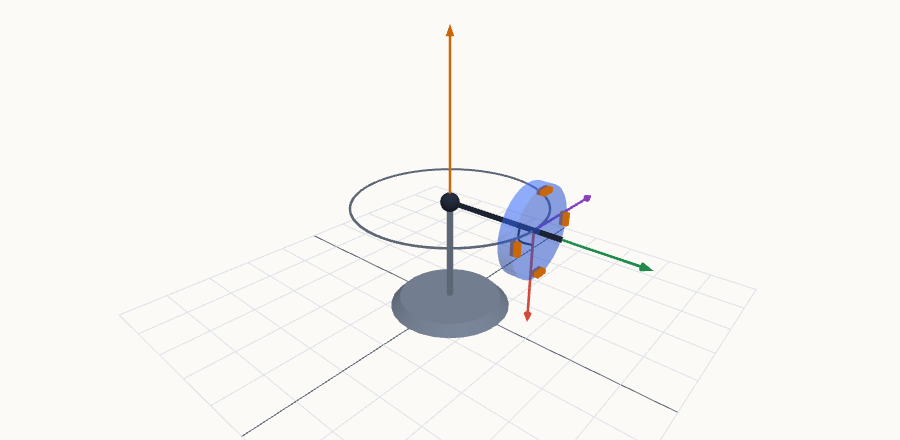
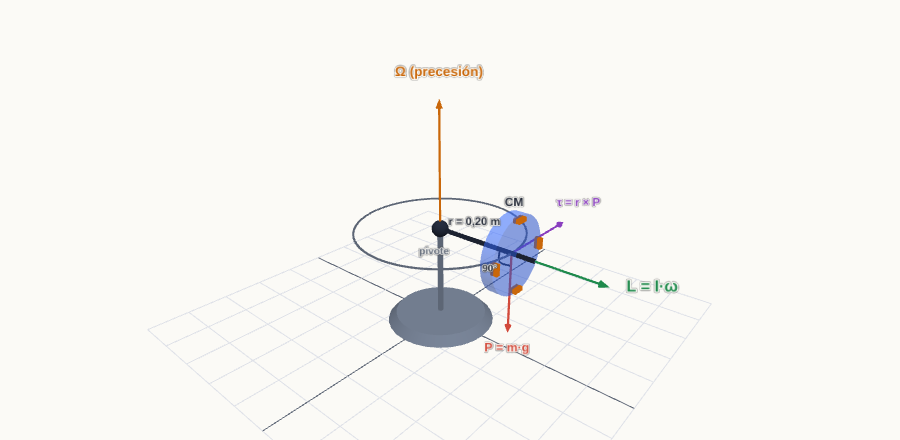
Giróscopo 3D de la PEC 2: rótulos de texto sobre cada vector en lugar de leyenda
Claude-Session: https://claude.ai/code/session_013NPRw5Yt76X8T2S3CHRMJi

diff --git a/assets/escenas/precesion-pec.js b/assets/escenas/precesion-pec.js
@@ -5,9 +5,21 @@
 Interactivos.registrar('precesion-pec', function (c) {
   var T = c.THREE, H = c.H, P = c.colores(), g = 9.8, rad = Math.PI / 180, m = 0.5, I = 0.002, rm = 0.20;
   var om = 100, rcm = 2.0, Rcm = 0.9, psi = 0, listo = false, esp = 0.3, fino = 0.025, dz = -2.4;
-  var eje, rueda, marcas = [], gSpin, pivote, columna, base, suelo, trayec, fL, fW, fT, fO, grupoRueda, cuadro;
+  var tL, tW, tT, tO, tR, tA, tC, tP, eje, rueda, marcas = [], gSpin, pivote, columna, base, suelo, trayec, fL, fW, fT, fO, grupoRueda, cuadro;
   var lO = c.lectura('Ω = m g r / (I ω)'), lT = c.lectura('Una vuelta de precesión cada'), lR = c.lectura('Velocidad de giro ω');
   var fm = function (t, d) { var k = Math.pow(10, d == null ? 2 : d); return (Math.round(t * k) / k).toString().replace('-', '−').replace('.', ','); };
+  var rotulos = [];
+  function rotulo(texto, clave, alto) {   /* texto 3D (sprite) que siempre mira a la cámara; clave = color de la paleta */
+    var cv = document.createElement('canvas'); cv.width = 384; cv.height = 96;
+    var tex = new T.CanvasTexture(cv), sp = new T.Sprite(new T.SpriteMaterial({ map: tex, depthTest: false, transparent: true }));
+    sp.renderOrder = 10; sp.scale.set(alto * 4, alto, 1);
+    var o = { sp: sp, clave: clave, texto: texto };
+    o.pintar = function () {
+      var x = cv.getContext('2d'); x.clearRect(0, 0, 384, 96); x.font = 'bold 52px "Segoe UI", Arial, sans-serif'; x.textAlign = 'center'; x.textBaseline = 'middle';
+      x.lineJoin = 'round'; x.lineWidth = 9; x.strokeStyle = P.bg; x.strokeText(texto, 192, 50); x.fillStyle = P[clave]; x.fillText(texto, 192, 50); tex.needsUpdate = true;
+    };
+    o.pintar(); rotulos.push(o); c.scene.add(sp); return o;
+  }
   function Om() { return m * g * rm / (I * om); }
   function nuevo() {
     suelo = new T.GridHelper(10, 10, P.mut, P.bd); suelo.rotation.x = Math.PI / 2; suelo.position.z = dz; c.scene.add(suelo);
@@ -23,7 +35,9 @@ Interactivos.registrar('precesion-pec', function (c) {
     trayec = H.tubo(T, [], 0.025, P.mut); c.scene.add(trayec);
     cuadro = H.tubo(T, [], 0.02, P.fg); c.scene.add(cuadro);
     fL = H.flecha(T, P.L, fino); fW = H.flecha(T, P.W, fino); fT = H.flecha(T, P.E, fino); fO = H.flecha(T, P.A, fino); c.scene.add(fL, fW, fT, fO);
-    c.camera.position.set(6.5, -7.5, 4.2); c.controls.target.set(0, 0, -0.4); c.controls.update();
+    tL = rotulo('L = I·ω', 'L', 0.52); tW = rotulo('P = m·g', 'W', 0.52); tT = rotulo('τ = r × P', 'E', 0.52); tO = rotulo('Ω (precesión)', 'A', 0.52);
+    tR = rotulo('r = 0,20 m', 'fg', 0.45); tA = rotulo('90°', 'fg', 0.4); tC = rotulo('CM', 'fg', 0.45); tP = rotulo('pivote', 'mut', 0.45);
+    c.camera.position.set(7.5, -8.5, 5); c.controls.target.set(0.3, 0, 0.3); c.controls.update();
   }
   function calc() {
     if (!listo) return;
@@ -41,7 +55,15 @@ Interactivos.registrar('precesion-pec', function (c) {
     fL.poner([cx, cy, 0], [cx + 2.2 * d[0], cy + 2.2 * d[1], 0]);
     fW.poner([cx, cy, 0], [cx, cy, -2.0]);
     fT.poner([cx, cy, 0], [cx + 2.2 * tg[0], cy + 2.2 * tg[1], 0]);
-    fO.poner([0, 0, 0], [0, 0, 3.4]);
+    fO.poner([0, 0, 0], [0, 0, 3.0]);
+    tL.sp.position.set(cx + 2.2 * d[0] + 0.75 * d[0], cy + 2.2 * d[1] + 0.75 * d[1], 0.3);
+    tW.sp.position.set(cx, cy, -2.4);
+    tT.sp.position.set(cx + 2.2 * tg[0] + 0.7 * tg[0], cy + 2.2 * tg[1] + 0.7 * tg[1], 0.3);
+    tO.sp.position.set(0, 0, 3.55);
+    tR.sp.position.set(0.5 * r * d[0], 0.5 * r * d[1], 0.45);
+    tA.sp.position.set(cx - 0.55 * d[0], cy - 0.55 * d[1], -0.55);
+    tC.sp.position.set(cx + 0.0, cy + 0.0, 1.15);
+    tP.sp.position.set(-0.2, 0, -0.65);
     var o = Om();
     lO(fm(o, 2) + ' rad/s');
     lT(fm(2 * Math.PI / o, 2) + ' s');
@@ -49,7 +71,6 @@ Interactivos.registrar('precesion-pec', function (c) {
   }
   c.slider('Velocidad de giro ω (rad/s)', 50, 300, 1, om, function (v) { om = v; calc(); }, function (v) { return fm(v, 0) + ' rad/s'; });
   c.reproductor({ max: 360, valor: 0, paso: 1, vel: function () { return Om() / rad; }, ciclico: true, etiqueta: 'Ángulo de precesión φ', fmt: function (v) { return Math.round(v) + '°'; }, cb: function (v) { psi = v; calc(); } });
-  c.leyenda([['var(--X)', 'momento angular L = I ω (a lo largo del eje)', 'linea'], ['var(--warn-b)', 'peso P = m g (en el centro de masas, r = 0,20 m)', 'linea'], ['var(--E)', 'momento del peso τ = r × P (horizontal, ⟂ L y ⟂ P)', 'linea'], ['var(--A)', 'velocidad de precesión Ω (vertical)', 'linea']]);
   nuevo(); listo = true;
   c.alCambiarTema(function (qq) {
     P = qq; c.renderer.setClearColor(qq.bg);
@@ -57,6 +78,7 @@ Interactivos.registrar('precesion-pec', function (c) {
     c.scene.remove(suelo); suelo.geometry.dispose(); suelo = new T.GridHelper(10, 10, qq.mut, qq.bd); suelo.rotation.x = Math.PI / 2; suelo.position.z = dz; c.scene.add(suelo);
     columna.material.color.set(qq.mut); base.material.color.set(qq.mut); pivote.material.color.set(qq.fg); eje.material.color.set(qq.fg); rueda.material.color.set(qq.acc); trayec.material.color.set(qq.mut); cuadro.material.color.set(qq.fg);
     marcas.forEach(function (mk) { mk.material.color.set(qq.A); });
+    rotulos.forEach(function (q) { q.pintar(); });
     [[fL, qq.L], [fW, qq.W], [fT, qq.E], [fO, qq.A]].forEach(function (e) { e[0].userData.eje.material.color.set(e[1]); e[0].userData.cono.material.color.set(e[1]); });
   });
   calc();
